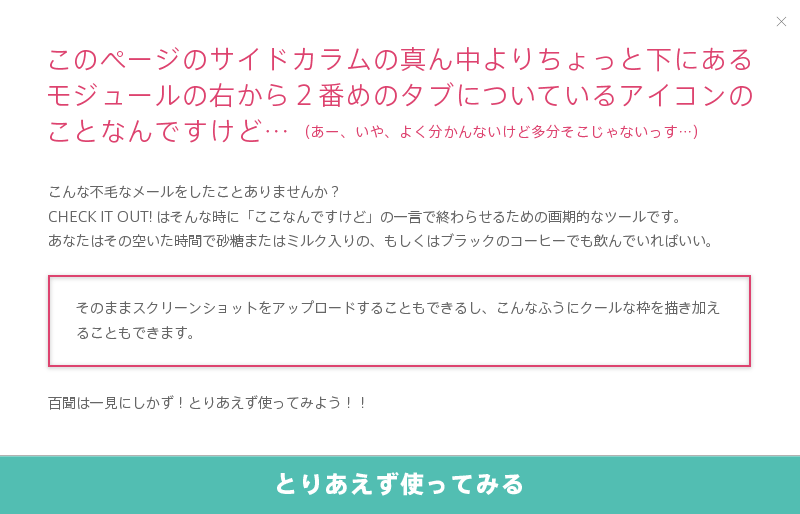
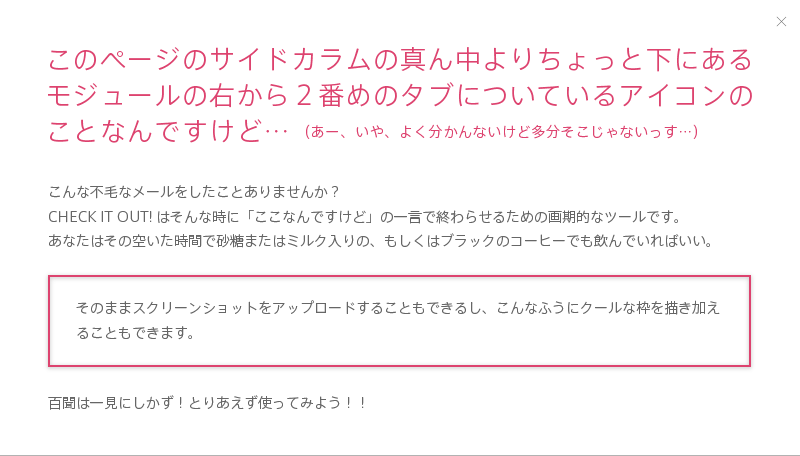
added help modal

diff --git a/assets/styles/main.less b/assets/styles/main.less
@@ -293,7 +293,32 @@ h2 {
 		display: inline-block;
 		width: 800px;
 		height: 514px;
-		background: #fff url(/images/help.png);
+		background: #fff url(/images/help.png) 0 0 no-repeat;
+
+		.try {
+			.transition(.2s);
+			background: #52beb2 url(/images/text-try.png) 50% 50% no-repeat;
+			position: absolute;
+			width: 100%;
+			height: 57px;
+			border-top: #84cfc5 1px solid;
+			left: 0;
+			bottom: 0;
+			cursor: pointer;
+
+			&:hover {
+				background-color: #46afa0;
+			}
+		}
+
+		.close {
+			position: absolute;
+			width: 20px;
+			height: 20px;
+			right: 10px;
+			top: 10px;
+			cursor: pointer;
+		}
 	}
 }
 

diff --git a/README.md b/README.md
@@ -6,9 +6,7 @@
 
 ### TODO
 - og:imageが反映されない気がする
-- 「このサービスについて」の作成
 - トップが寂しいので羊と多肉植物をはやす
-- IEのフォールバックとか考えたり確認
 - 画像サイズの制限など、バリデーション系
 - Safariでもviewport端っこに来た時にスクロールするようにしたい
 - サーバーサイドでの画像書き出し負荷が大変なことになってる
